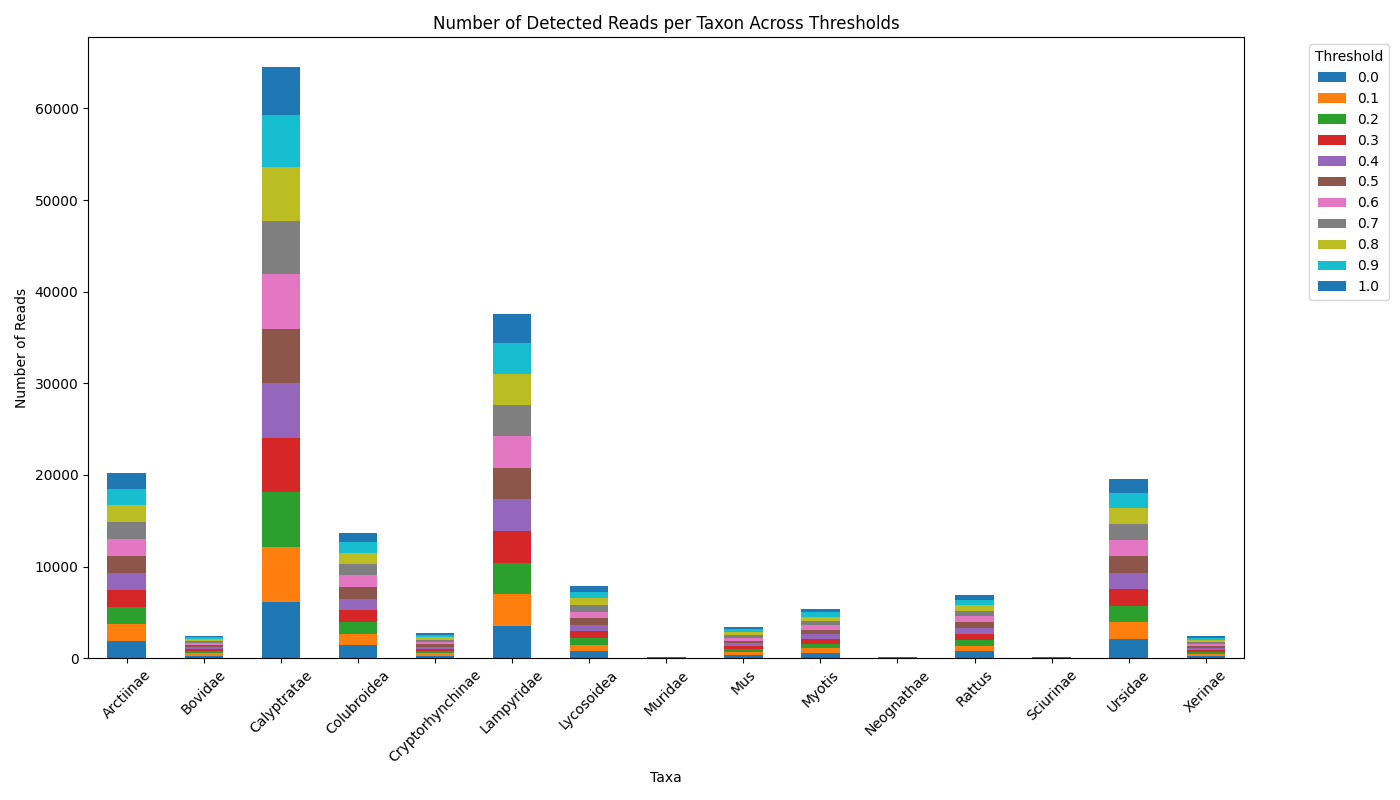
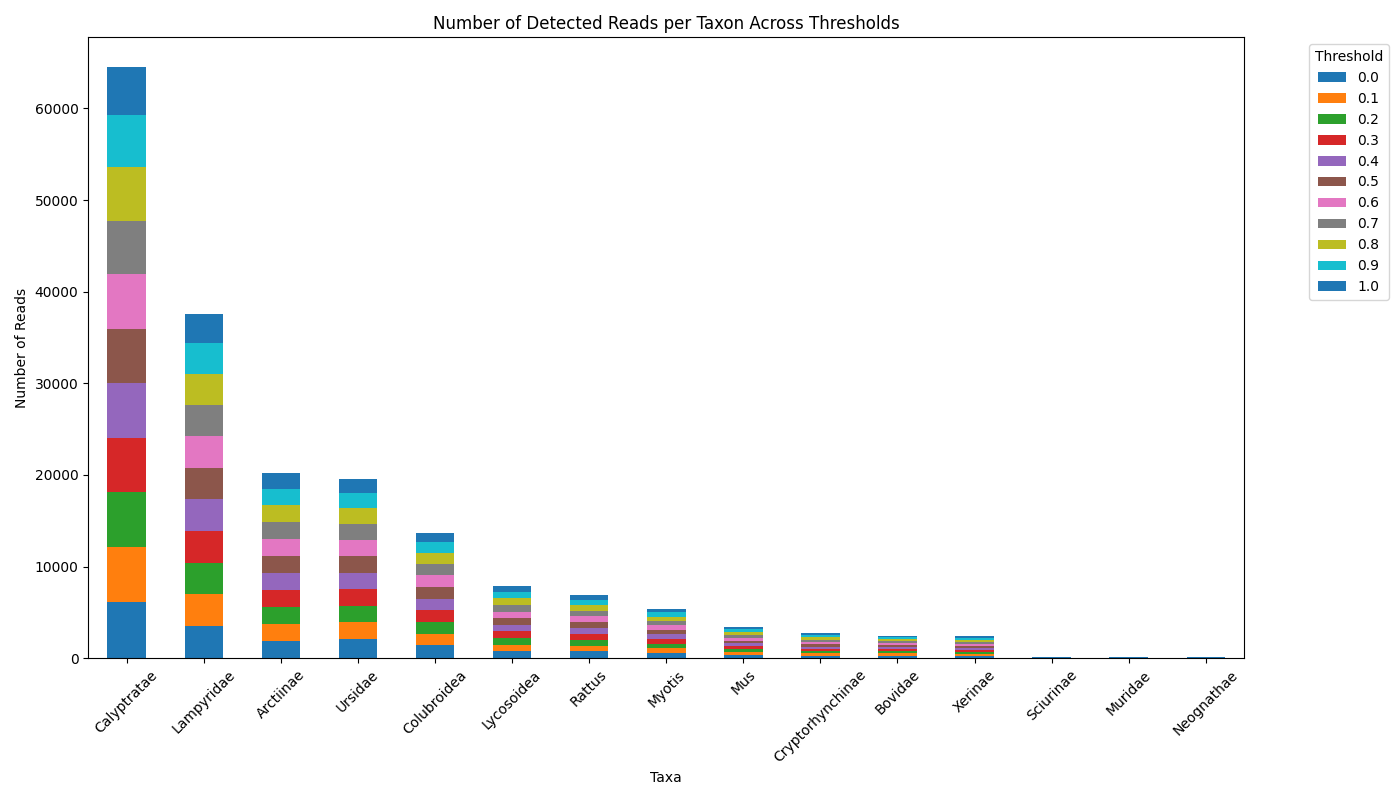
Update

diff --git a/euka_results/plot.py b/euka_results/plot.py
@@ -32,13 +32,19 @@ def read_and_parse_files(directory_path):
     return pd.DataFrame(all_data)
 
 def plot_data(df):
-    """
-    Generates a stacked bar plot from the DataFrame.
-    
-    Parameters:
-    - df: DataFrame, with columns ['Taxa', 'Threshold', 'Number_of_reads']
-    """
+    # Calculate total reads per taxa
+    df_total_reads = df.groupby('Taxa').sum().reset_index()
+
+    # Sort taxa by total read count in descending order
+    sorted_taxa = df_total_reads.sort_values(by='Number_of_reads', ascending=False)['Taxa']
+
+    # Pivot the original dataframe for plotting
     df_pivot = df.pivot(index="Taxa", columns="Threshold", values="Number_of_reads")
+
+    # Reorder the DataFrame based on the sorted taxa
+    df_pivot = df_pivot.reindex(sorted_taxa)
+
+    # Proceed with plotting as before
     df_pivot.plot(kind='bar', stacked=True, figsize=(14, 8))
     plt.title('Number of Detected Reads per Taxon Across Thresholds')
     plt.xlabel('Taxa')
@@ -47,6 +53,7 @@ def plot_data(df):
     plt.legend(title='Threshold', bbox_to_anchor=(1.05, 1), loc='upper left')
     plt.tight_layout()
     plt.savefig("threshold_plot.png")
+
 
 # Specify the directory path containing your files
 directory_path = '.'
